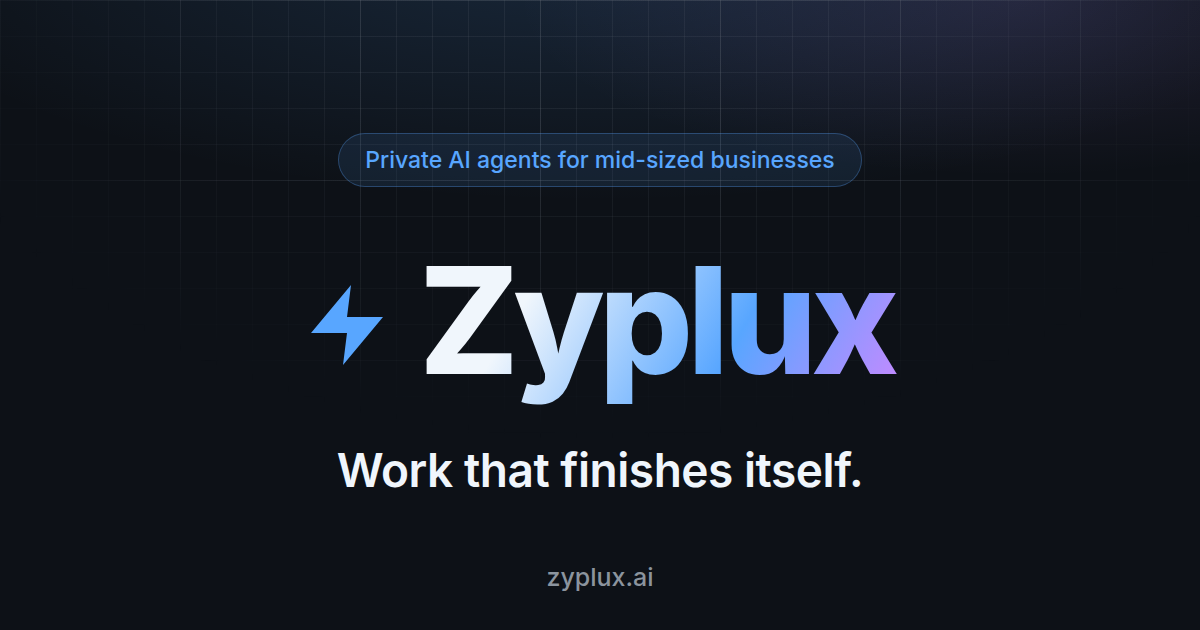
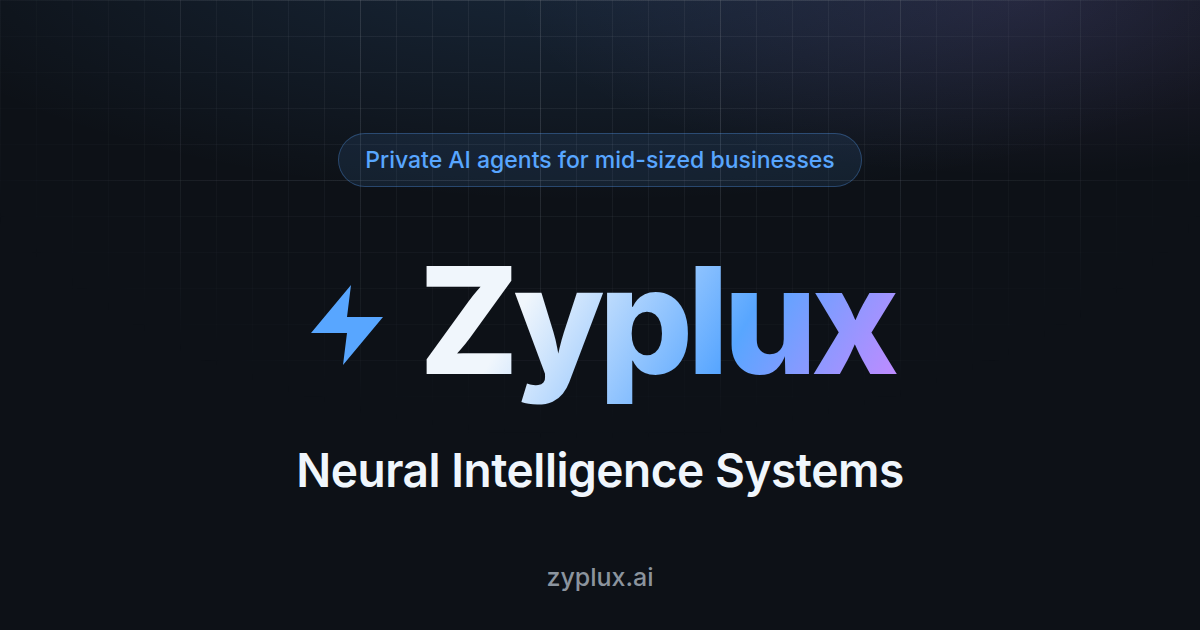
feat: restore scroll animations, change title

Changed region(s): [[0.2467, 0.6937, 0.7708, 0.7841]]

diff --git a/apps/web/src/components/ui/pictogram.tsx b/apps/web/src/components/ui/pictogram.tsx
@@ -1,0 +1,28 @@
+import type { LucideIcon } from 'lucide-react';
+
+import { motion, useInView, useReducedMotion } from 'motion/react';
+import { useRef } from 'react';
+
+export const Pictogram = ({ delay = 0, icon: Icon }: { delay?: number; icon: LucideIcon }) => {
+  const ref = useRef(null);
+  const isInView = useInView(ref, { margin: '-100px', once: false });
+  const prefersReducedMotion = useReducedMotion();
+
+  const hidden = prefersReducedMotion ? { opacity: 0 } : { opacity: 0, rotate: -180, scale: 0 };
+  const shown = prefersReducedMotion ? { opacity: 1 } : { opacity: 1, rotate: 0, scale: 1 };
+  const hover = prefersReducedMotion ? { opacity: 1 } : { rotate: 360, scale: 1.1 };
+
+  return (
+    <motion.div
+      animate={isInView ? shown : hidden}
+      className='mb-5 flex size-12 items-center justify-center rounded-xl border border-accent/20 bg-accent/10 text-accent'
+      initial={hidden}
+      ref={ref}
+      style={{ willChange: 'transform, opacity' }}
+      transition={{ delay: delay + 0.1, stiffness: 200, type: 'spring' }}
+      whileHover={hover}
+    >
+      <Icon aria-hidden className='size-6' />
+    </motion.div>
+  );
+};

diff --git a/apps/web/src/components/sections/not-chatbot.tsx b/apps/web/src/components/sections/not-chatbot.tsx
@@ -1,6 +1,11 @@
+import { Repeat, ShieldCheck, Workflow } from 'lucide-react';
+
 import { NOT_CHATBOT } from '../../content';
+import { Pictogram } from '../ui/pictogram';
 import { Reveal } from '../ui/reveal';
 import { SpotlightCard } from '../ui/spotlight-card';
+
+const POINT_ICONS = [Workflow, Repeat, ShieldCheck];
 
 export const NotChatbot = () => (
   <section className='relative py-32'>
@@ -18,14 +23,18 @@ export const NotChatbot = () => (
       </Reveal>
 
       <div className='grid grid-cols-1 md:grid-cols-3 gap-6 mx-auto max-w-4xl'>
-        {NOT_CHATBOT.points.map((point, index) => (
-          <Reveal delay={index * 0.08} key={point.title}>
-            <SpotlightCard>
-              <h3 className='text-xl font-semibold text-heading mb-2'>{point.title}</h3>
-              <p className='text-muted'>— {point.detail}</p>
-            </SpotlightCard>
-          </Reveal>
-        ))}
+        {NOT_CHATBOT.points.map((point, index) => {
+          const Icon = POINT_ICONS[index];
+          return (
+            <Reveal delay={index * 0.08} key={point.title}>
+              <SpotlightCard>
+                {Icon !== undefined && <Pictogram delay={index * 0.08} icon={Icon} />}
+                <h3 className='text-xl font-semibold text-heading mb-2'>{point.title}</h3>
+                <p className='text-muted'>— {point.detail}</p>
+              </SpotlightCard>
+            </Reveal>
+          );
+        })}
       </div>
     </div>
   </section>

diff --git a/apps/web/src/components/sections/security.tsx b/apps/web/src/components/sections/security.tsx
@@ -1,6 +1,11 @@
+import { Lock, MousePointerClick, Plug, ScrollText, Server } from 'lucide-react';
+
 import { SECURITY } from '../../content';
+import { Pictogram } from '../ui/pictogram';
 import { Reveal } from '../ui/reveal';
 import { SpotlightCard } from '../ui/spotlight-card';
+
+const POINT_ICONS = [Plug, MousePointerClick, ScrollText, Lock, Server];
 
 export const Security = () => (
   <section className='relative py-32' id='security'>
@@ -16,14 +21,18 @@ export const Security = () => (
       </Reveal>
 
       <div className='grid grid-cols-1 md:grid-cols-2 lg:grid-cols-3 gap-6 mx-auto max-w-5xl'>
-        {SECURITY.points.map((point, index) => (
-          <Reveal delay={index * 0.08} key={point.title}>
-            <SpotlightCard>
-              <h3 className='text-xl font-semibold text-heading mb-2'>{point.title}</h3>
-              {point.detail !== undefined && <p className='text-muted'>{point.detail}</p>}
-            </SpotlightCard>
-          </Reveal>
-        ))}
+        {SECURITY.points.map((point, index) => {
+          const Icon = POINT_ICONS[index];
+          return (
+            <Reveal delay={index * 0.08} key={point.title}>
+              <SpotlightCard>
+                {Icon !== undefined && <Pictogram delay={index * 0.08} icon={Icon} />}
+                <h3 className='text-xl font-semibold text-heading mb-2'>{point.title}</h3>
+                {point.detail !== undefined && <p className='text-muted'>{point.detail}</p>}
+              </SpotlightCard>
+            </Reveal>
+          );
+        })}
       </div>
     </div>
   </section>

diff --git a/apps/web/index.html b/apps/web/index.html
@@ -9,7 +9,7 @@
       content="We connect a private AI agent to the systems your business already runs on and give it real jobs — the repetitive, multi-step work that eats your team’s week."
     />
     <meta name="theme-color" content="#0d1117" />
-    <meta property="og:title" content="Zyplux — Work that finishes itself." />
+    <meta property="og:title" content="Zyplux — Neural Intelligence Systems" />
     <meta
       property="og:description"
       content="We connect a private AI agent to the systems your business already runs on and give it real jobs — the repetitive, multi-step work that eats your team’s week."
@@ -19,9 +19,9 @@
     <meta property="og:image" content="https://zyplux.ai/og.png" />
     <meta property="og:image:width" content="1200" />
     <meta property="og:image:height" content="630" />
-    <meta property="og:image:alt" content="Zyplux — Work that finishes itself." />
+    <meta property="og:image:alt" content="Zyplux — Neural Intelligence Systems" />
     <meta name="twitter:card" content="summary_large_image" />
-    <title>Zyplux — Work that finishes itself.</title>
+    <title>Zyplux — Neural Intelligence Systems</title>
   </head>
   <body>
     <div id="root"></div>

diff --git a/apps/web/og-image.html b/apps/web/og-image.html
@@ -117,7 +117,7 @@
         </svg>
         <h1>Zyplux</h1>
       </div>
-      <div class="tagline">Work that finishes itself.</div>
+      <div class="tagline">Neural Intelligence Systems</div>
     </div>
     <div class="domain">zyplux.ai</div>
   </body>

diff --git a/eslint.config.ts b/eslint.config.ts
@@ -3,7 +3,7 @@ import { defineConfig } from 'eslint/config';
 
 export default defineConfig(
   ...totvibe({
-    ignores: ['**/.tsbuild/**'],
+    ignores: ['**/.tsbuild/**', 'reference_clones/**'],
     react: true,
     tsconfigRootDir: import.meta.dirname,
   }),

diff --git a/scripts/clone_reference.py b/scripts/clone_reference.py
@@ -1,0 +1,37 @@
+#!/usr/bin/env -S uv run --script
+# /// script
+# requires-python = ">=3.14"
+# ///
+"""Shallow-clone a reference repo into reference_clones/ for browsing.
+
+Usage: clone_reference.py <owner/name|url> [ref]
+With a ref, keep history back to (but excluding) that commit/tag; otherwise
+clone a single commit. Not part of `up`/idempotency — a manual dev helper.
+"""
+
+import shutil
+import subprocess
+import sys
+from pathlib import Path
+
+
+def main() -> None:
+    if not 2 <= len(sys.argv) <= 3:
+        sys.exit("usage: clone_reference.py <owner/name|url> [ref]")
+    repo = sys.argv[1]
+    ref = sys.argv[2] if len(sys.argv) == 3 else ""
+
+    is_url = "://" in repo or repo.startswith("git@")
+    url = repo if is_url else f"https://github.com/{repo}.git"
+    dest = Path("reference_clones") / Path(repo).name.removesuffix(".git")
+
+    if dest.exists():
+        input(f"{dest} exists — rm -rf and re-clone? [enter to continue, ^C to abort] ")
+        shutil.rmtree(dest)
+
+    depth_args = ["--shallow-exclude", ref] if ref else ["--depth", "1"]
+    subprocess.run(["git", "clone", *depth_args, "--single-branch", url, str(dest)], check=True)
+
+
+if __name__ == "__main__":
+    main()

diff --git a/docs/session.md b/docs/session.md
@@ -1,0 +1,114 @@
+# Session summary — 2026-06-07: zyplux.ai content swap
+
+## Goal
+
+Apply the content kit `docs/zyplux-new-content/` (since deleted) to the site: replace all
+jargon-era copy ("Neural Intelligence Systems") with the services-first "Show, Then Sell"
+narrative. Design system stayed; **no old copy survived**.
+
+## What was built
+
+### One-pager `/` (apps/web/src/App.tsx)
+
+Section order per the locked structure:
+
+1. **Navigation** — How it works / Security / FAQ anchors, "See the agent" → `/agent`,
+   CTA button "Get your free audit" → `#audit`
+2. **Hero** — badge "Private AI agents for mid-sized businesses"; h1 = **Zyplux**
+   (shimmer gradient — founder reverted the planned "Work that finishes itself." h1);
+   subhead "We connect a private AI agent…"; CTAs → `#audit` / `#week`
+3. **Vignette timeline** (`#week`) — 4 scenes (invoice, weekly report, customer email,
+   decision brief), timestamps + green ✓ status chips (new token `--color-success: #3fb950`)
+4. **This is not a chatbot** — prose + 3-point card strip (replaced `features.tsx`)
+5. **Process ladder** (`#how-it-works`) — audit → pilot → run/tune/expand
+6. **Founder note** — photo `apps/web/src/assets/founder.jpg` (interim 400×400)
+7. **Security** (`#security`) — 5 cards
+8. **FAQ** (`#faq`) — 8 native `<details>/<summary>` items
+9. **Final CTA** (`#audit`) — audit form
+10. **Footer** — blurb, Navigate/Pages/Contact columns, email + LinkedIn, `© {year} Zyplux.`
+
+### Subpages (static Vite inputs, no router)
+
+`agent.html`, `insights.html`, `privacy.html` → entries `src/{agent,insights,privacy}.tsx`
+→ `src/pages/*-page.tsx`, shared `SubpageLayout` (logo + Back home + Footer).
+Served extensionless by Cloudflare assets (verified via `vite preview`: all four routes 200
+with correct titles). Email capture on `/agent` and `/insights` only.
+
+### Architecture decisions
+
+- **`apps/web/src/content.ts`** — single typed module holding every user-visible string,
+  exported as `@zyplux/web/content`; test fixtures re-export from it
+- **Forms** — custom-markup `fetch` POST to one `FORM_ENDPOINT` constant (placeholder!),
+  hidden `form` field discriminates `audit` / `agent-updates` / `insights-updates`;
+  honeypot field `website`; inline thank-you / error states
+  (`components/forms/hosted-form.tsx`, `audit-form.tsx`, `email-capture.tsx`)
+- **UI extraction** — `components/ui/spotlight-card.tsx` (hover spotlight from old
+  FeatureCard) and `components/ui/reveal.tsx` (useInView + reduced-motion)
+- Shared `src/mount.tsx` bootstraps all four entries; `vite.config.ts` got
+  `build.rollupOptions.input` with the four HTML files
+- React 19 deprecates `FormEvent` → used `SubmitEvent`
+- `knip.json`: declared the three new entries (`src/agent.tsx` etc.)
+
+### Supporting changes
+
+- `index.html` — title/meta/OG rewritten; OG image wired (see below)
+- `OVERVIEW.md` — stale "3D scenes" sections updated to current structure
+- Tests — `HERO_BADGE` updated; headline fixture added then removed with the hero revert
+- Founder photo copied to `apps/web/src/assets/` (hashed import)
+
+## Founder inputs during session
+
+- LinkedIn (in footer): <https://www.linkedin.com/in/sergiy-yeskov-4a8534152/>
+- <[email redacted]> mailbox: being set up by Sergiy (launch blocker until live)
+- Hero: keep **Zyplux** as h1; keep subhead; drop "Work that finishes itself." from hero
+  (it remains `<title>` and `og:title`)
+- Privacy: full page at `/privacy` (footer-linked) per pages/privacy.md from the kit
+
+## og:image
+
+- `apps/web/public/og.png` (1200×630) generated from versioned source
+  `apps/web/og-image.html` via **`just og-image`** (headless Chromium; Inter from Google
+  Fonts at generation time; design mirrors site tokens: grid, glows, badge, bolt +
+  gradient wordmark, tagline, domain)
+- `index.html`: `og:image` absolute URL + width/height/alt; `twitter:card` →
+  `summary_large_image`
+- After deploy, validate cards at opengraph.xyz / LinkedIn Post Inspector (caches!)
+
+## Outstanding (see docs/post-new-content.md for full detail)
+
+## Launch blockers
+
+1. `FORM_ENDPOINT` in `apps/web/src/content.ts` is a placeholder — create a plain-POST
+   form service account (Formspree/Web3Forms class, not iframe-embed), paste URL, and
+   name the provider in `PRIVACY_PAGE` "Where it goes."
+2. <[email redacted]> must receive mail before launch (never publish the personal address)
+
+**Verify before launch** — privacy "no analytics" claim (true today; update if Cloudflare
+Web Analytics enabled); read the invented `FORM_MESSAGES` microcopy; founder photo is
+interim.
+
+**Later** — `/agent` showcase embed (sandboxed demo from totvibe-agent repo; approval
+moments + audit log are the money shots); 5 insights article seeds; booking-link
+secondary CTA; light theme + headline A/B.
+
+**Copy rules (ongoing)** — brand "Zyplux" never "Zyplux.ai"; banned words: agentic, LLM,
+orchestration, RAG, model, prompt, leverage, transformative (sole exception: the
+canonical "never trains public AI models" line); claims must be true of the product;
+vignettes labeled scenarios; no invented numbers; no public pricing.
+
+## Git state caveat
+
+The content kit was **staged but never committed**, then deleted from the worktree.
+Staged copies survive in the index until commit/re-add: `git restore
+docs/zyplux-new-content` recovers it (e.g. to commit the kit + research into history);
+`git add -A` makes the deletion final. Everything operationally needed was carried into
+`docs/post-new-content.md`.
+
+## Verification
+
+- `just check` passes (knip, typecheck, lint, 5/5 tests); `just build` emits all four
+  pages + og.png
+- Banned-words sweep clean (only the canonical "models" lines)
+- All anchors resolve; all CTAs reach `#audit`; forms render (submission blocked on the
+  real endpoint)
+- Working tree left **unstaged** for review; nothing committed or deployed

diff --git a/docs/post-new-content.md b/docs/post-new-content.md
@@ -14,9 +14,9 @@ user-visible string lives there; page titles/meta are duplicated in `apps/web/*.
       `audit` · `agent-updates` · `insights-updates`. A honeypot field (`website`) is
       stripped client-side; the service's spam filtering does the rest (Cloudflare
       Turnstile is optional post-launch hardening).
-- [ ] **[email redacted] mailbox** — being set up (Sergiy). Published in the footer and on
+- [ ] **<[email redacted]> mailbox** — being set up (Sergiy). Published in the footer and on
       the privacy page; must receive mail before launch. Interim personal contact is
-      [email redacted] — never publish the personal address.
+      <[email redacted]> — never publish the personal address.
 
 ## Verify before launch
 